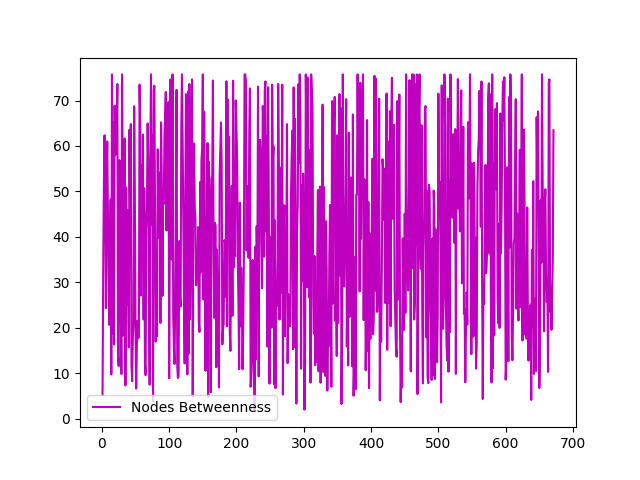
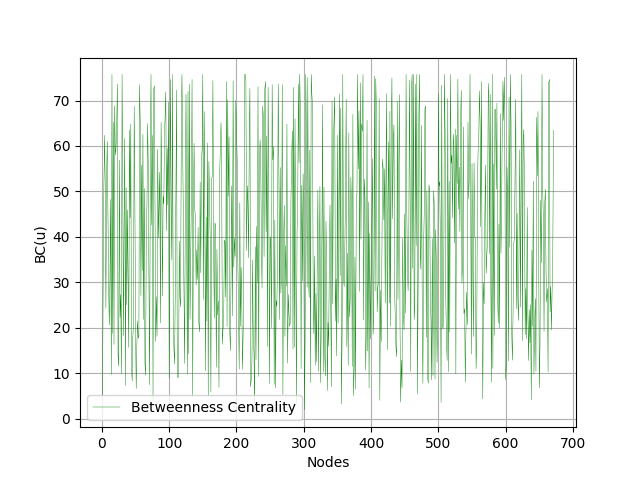
Centrality Measures graphics

diff --git a/Code/Social Networks/snap-sn.py b/Code/Social Networks/snap-sn.py
@@ -5,7 +5,6 @@ from sys import stdin
 import networkx as nx
 import pandas as pd
 import snap
-from time import time
 
 def plot_bipartite(BG, df):
     pos = {node:[0, i] for i,node in enumerate(df['user_id'])}
@@ -44,11 +43,8 @@ def movielens_graph():
     #plot_snap(SnapProjGraph, "UserProjection", "User Projection with networkx")
 
     #Topological Measures of the User Projection
-    #degree_distribution_networkx(ProjGraph)
-    t1 = time()
+    degree_distribution_networkx(ProjGraph)
     topological_measures_snap(SnapProjGraph)
-    t2 = time()
-    print("Execution Time {0}".format(t2-t1))
     return
 
 def convert_networkx_to_snap(G):
@@ -61,16 +57,19 @@ def convert_networkx_to_snap(G):
         #print(data['weight'])
     return SG
 
+def plot_graphics(x, y, l, sty, name, lw, xl, yl):
+    plt.clf()
+    plt.plot(x, y,sty, label=l, lw=lw)
+    plt.xlabel(xl)
+    plt.ylabel(yl)
+    plt.legend()
+    plt.grid()
+    plt.savefig(name)
+
 def degree_distribution_networkx(G):
     degree_freq = nx.degree_histogram(G)
     degrees = range(len(degree_freq))
-    plt.figure(figsize=(12, 8))
-    plt.plot(degrees, degree_freq,'c', label="Degree Distribution")
-    plt.xlabel('Degree')
-    plt.ylabel('Frequency')
-    plt.legend()
-    plt.grid()
-    plt.savefig("UserProjectionDegreeDistribution.png")
+    plot_graphics(degrees, degree_freq, 'Degree Distribution', 'c', "UserProjectionDegreeDistribution.png", 0.6, 'Degree', 'Frequency')
     return
 
 def topological_measures_snap(G1):
@@ -93,7 +92,7 @@ def topological_measures_snap(G1):
     #Clustering Coefficient
     avg_clustering = G1.GetClustCf(False, -1)
     print("Average Clustering Coefficient: {0}".format(avg_clustering))
-    
+
     #Betweenness
     nodes, edges = G1.GetBetweennessCentr(1.0)
     x = []
@@ -101,11 +100,8 @@ def topological_measures_snap(G1):
     for u in nodes:
         x.append(int(u/2))
         y.append(nodes[u])
-    plt.plot(x, y, 'm', label='Nodes Betweenness')
-    plt.legend()
-    plt.savefig("UserProjectionBetweenness.png")
+    plot_graphics(x, y, 'Betweenness Centrality', 'g', "UserProjectionBetweenness.png", 0.3, 'Nodes', 'BC(u)')
 
-    plt.clf()
     #Closeness
     x2 = []
     y2 = []
@@ -113,9 +109,7 @@ def topological_measures_snap(G1):
         CloseCentr = G1.GetClosenessCentr(NI.GetId())
         x2.append(NI.GetId()/2)
         y2.append(CloseCentr)
-    plt.plot(x2, y2, 'm', label='Nodes Closeness')
-    plt.legend()
-    plt.savefig("UserProjectionCloseness.png")
+    plot_graphics(x2, y2, 'Closeness Centrality', 'r', "UserProjectionCloseness.png", 0.3, 'Nodes', 'CC(u)')
     return
 
 

diff --git a/Code/Neo4j/movies.py b/Code/Neo4j/movies.py
@@ -104,8 +104,8 @@ def main():
     return
 
 #main()
-#modelo1()
-reset_graph()
+modelo1()
+#reset_graph()
 
 """
 MATCH (u1:User)-[:CONNECTED]->(u2:User)
